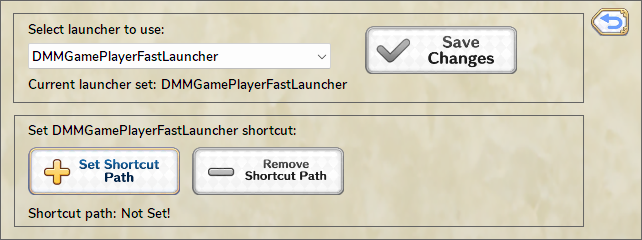
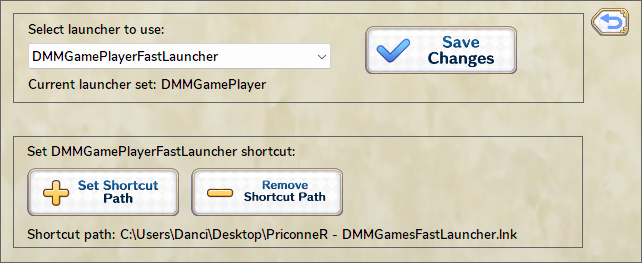
Launcherform UI changes

diff --git a/PriconneReTLInstaller/LauncherForm.Designer.cs b/PriconneReTLInstaller/LauncherForm.Designer.cs
@@ -35,7 +35,7 @@
             this.shortcutPathLabel = new System.Windows.Forms.Label();
             this.launcherComboBox = new System.Windows.Forms.ComboBox();
             this.setFastlauncherLinkLabel = new System.Windows.Forms.Label();
-            this.notInstalledLabel = new System.Windows.Forms.Label();
+            this.dmmfastlauncherLabel = new System.Windows.Forms.Label();
             this.saveButton = new System.Windows.Forms.Button();
             this.launcherLabel = new System.Windows.Forms.Label();
             this.currentLauncherLabel = new System.Windows.Forms.Label();
@@ -123,17 +123,17 @@
             this.setFastlauncherLinkLabel.TabIndex = 35;
             this.setFastlauncherLinkLabel.Text = "Set DMMGamePlayerFastLauncher shortcut:";
             // 
-            // notInstalledLabel
+            // dmmfastlauncherLabel
             // 
-            this.notInstalledLabel.BackColor = System.Drawing.Color.Transparent;
-            this.notInstalledLabel.Font = new System.Drawing.Font("Microsoft Sans Serif", 9.75F, System.Drawing.FontStyle.Bold, System.Drawing.GraphicsUnit.Point, ((byte)(238)));
-            this.notInstalledLabel.ForeColor = System.Drawing.Color.Red;
-            this.notInstalledLabel.Location = new System.Drawing.Point(343, 35);
-            this.notInstalledLabel.Name = "notInstalledLabel";
-            this.notInstalledLabel.Size = new System.Drawing.Size(226, 35);
-            this.notInstalledLabel.TabIndex = 36;
-            this.notInstalledLabel.Text = "DMMGamePlayerFastLauncher not installed!";
-            this.notInstalledLabel.Visible = false;
+            this.dmmfastlauncherLabel.BackColor = System.Drawing.Color.Transparent;
+            this.dmmfastlauncherLabel.Font = new System.Drawing.Font("Microsoft Sans Serif", 9.75F, System.Drawing.FontStyle.Bold, System.Drawing.GraphicsUnit.Point, ((byte)(238)));
+            this.dmmfastlauncherLabel.ForeColor = System.Drawing.Color.Red;
+            this.dmmfastlauncherLabel.Location = new System.Drawing.Point(12, 110);
+            this.dmmfastlauncherLabel.Name = "dmmfastlauncherLabel";
+            this.dmmfastlauncherLabel.Size = new System.Drawing.Size(570, 22);
+            this.dmmfastlauncherLabel.TabIndex = 36;
+            this.dmmfastlauncherLabel.Text = "DMMGamePlayerFastLauncher not installed! Falling back to DMMGamePlayer!";
+            this.dmmfastlauncherLabel.Visible = false;
             // 
             // saveButton
             // 
@@ -230,11 +230,10 @@
             this.panel2.BorderStyle = System.Windows.Forms.BorderStyle.FixedSingle;
             this.panel2.Controls.Add(this.shortcutPathLabel);
             this.panel2.Controls.Add(this.shortcutLabel);
-            this.panel2.Controls.Add(this.notInstalledLabel);
             this.panel2.Controls.Add(this.setFastlauncherLinkLabel);
             this.panel2.Controls.Add(this.shortcutRemoveButton);
             this.panel2.Controls.Add(this.shortcutAddButton);
-            this.panel2.Location = new System.Drawing.Point(13, 114);
+            this.panel2.Location = new System.Drawing.Point(12, 135);
             this.panel2.Name = "panel2";
             this.panel2.Size = new System.Drawing.Size(570, 112);
             this.panel2.TabIndex = 41;
@@ -244,10 +243,11 @@
             this.AutoScaleDimensions = new System.Drawing.SizeF(6F, 13F);
             this.AutoScaleMode = System.Windows.Forms.AutoScaleMode.Font;
             this.BackgroundImage = global::PriconneReTLInstaller.Properties.Resources.bg2;
-            this.ClientSize = new System.Drawing.Size(640, 238);
+            this.ClientSize = new System.Drawing.Size(640, 261);
             this.ControlBox = false;
             this.Controls.Add(this.panel2);
             this.Controls.Add(this.panel1);
+            this.Controls.Add(this.dmmfastlauncherLabel);
             this.Controls.Add(this.backButton);
             this.FormBorderStyle = System.Windows.Forms.FormBorderStyle.FixedSingle;
             this.Name = "LauncherForm";
@@ -269,7 +269,7 @@
         private System.Windows.Forms.Label shortcutPathLabel;
         private System.Windows.Forms.ComboBox launcherComboBox;
         private System.Windows.Forms.Label setFastlauncherLinkLabel;
-        private System.Windows.Forms.Label notInstalledLabel;
+        private System.Windows.Forms.Label dmmfastlauncherLabel;
         private System.Windows.Forms.Button saveButton;
         private System.Windows.Forms.Label launcherLabel;
         private System.Windows.Forms.Label currentLauncherLabel;

diff --git a/PriconneReTLInstaller/LauncherForm.cs b/PriconneReTLInstaller/LauncherForm.cs
@@ -64,7 +64,7 @@ namespace PriconneReTLInstaller
                     Settings.Default.Save();
                 }
 
-                notInstalledLabel.Visible = true;
+                dmmfastlauncherLabel.Visible = true;
                 shortcutAddButton.Enabled = false;
                 shortcutRemoveButton.Enabled = false;
             }
